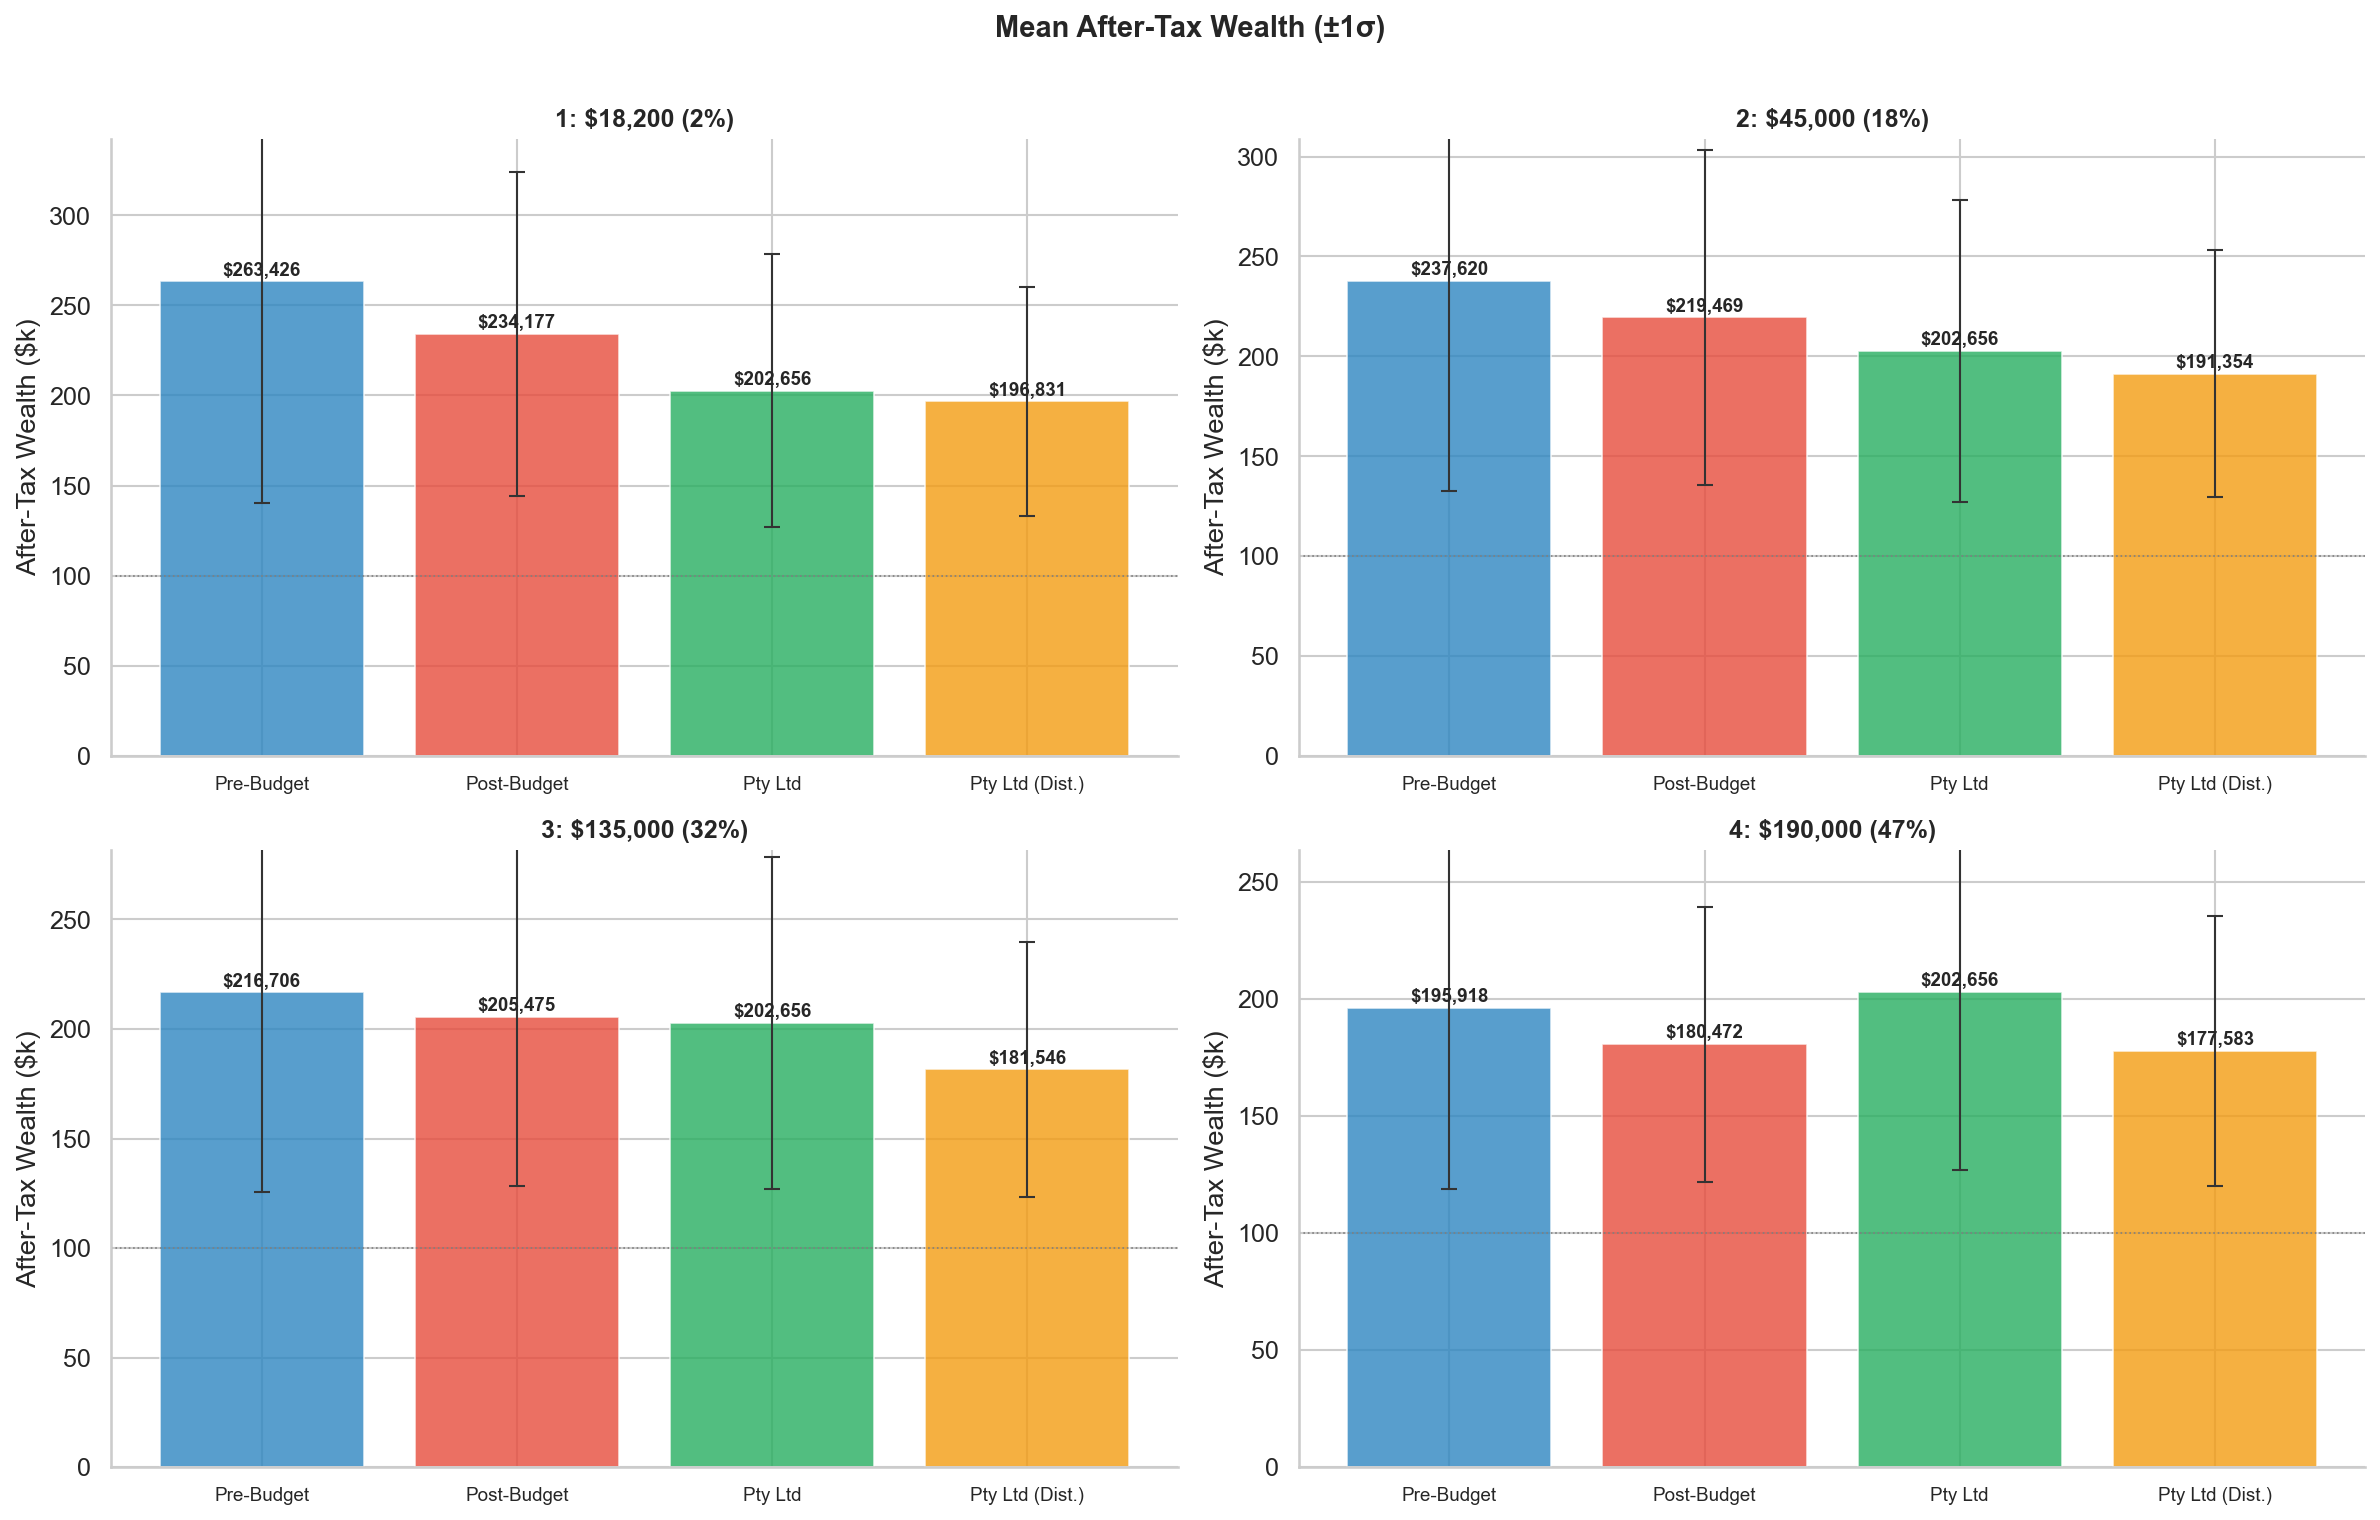
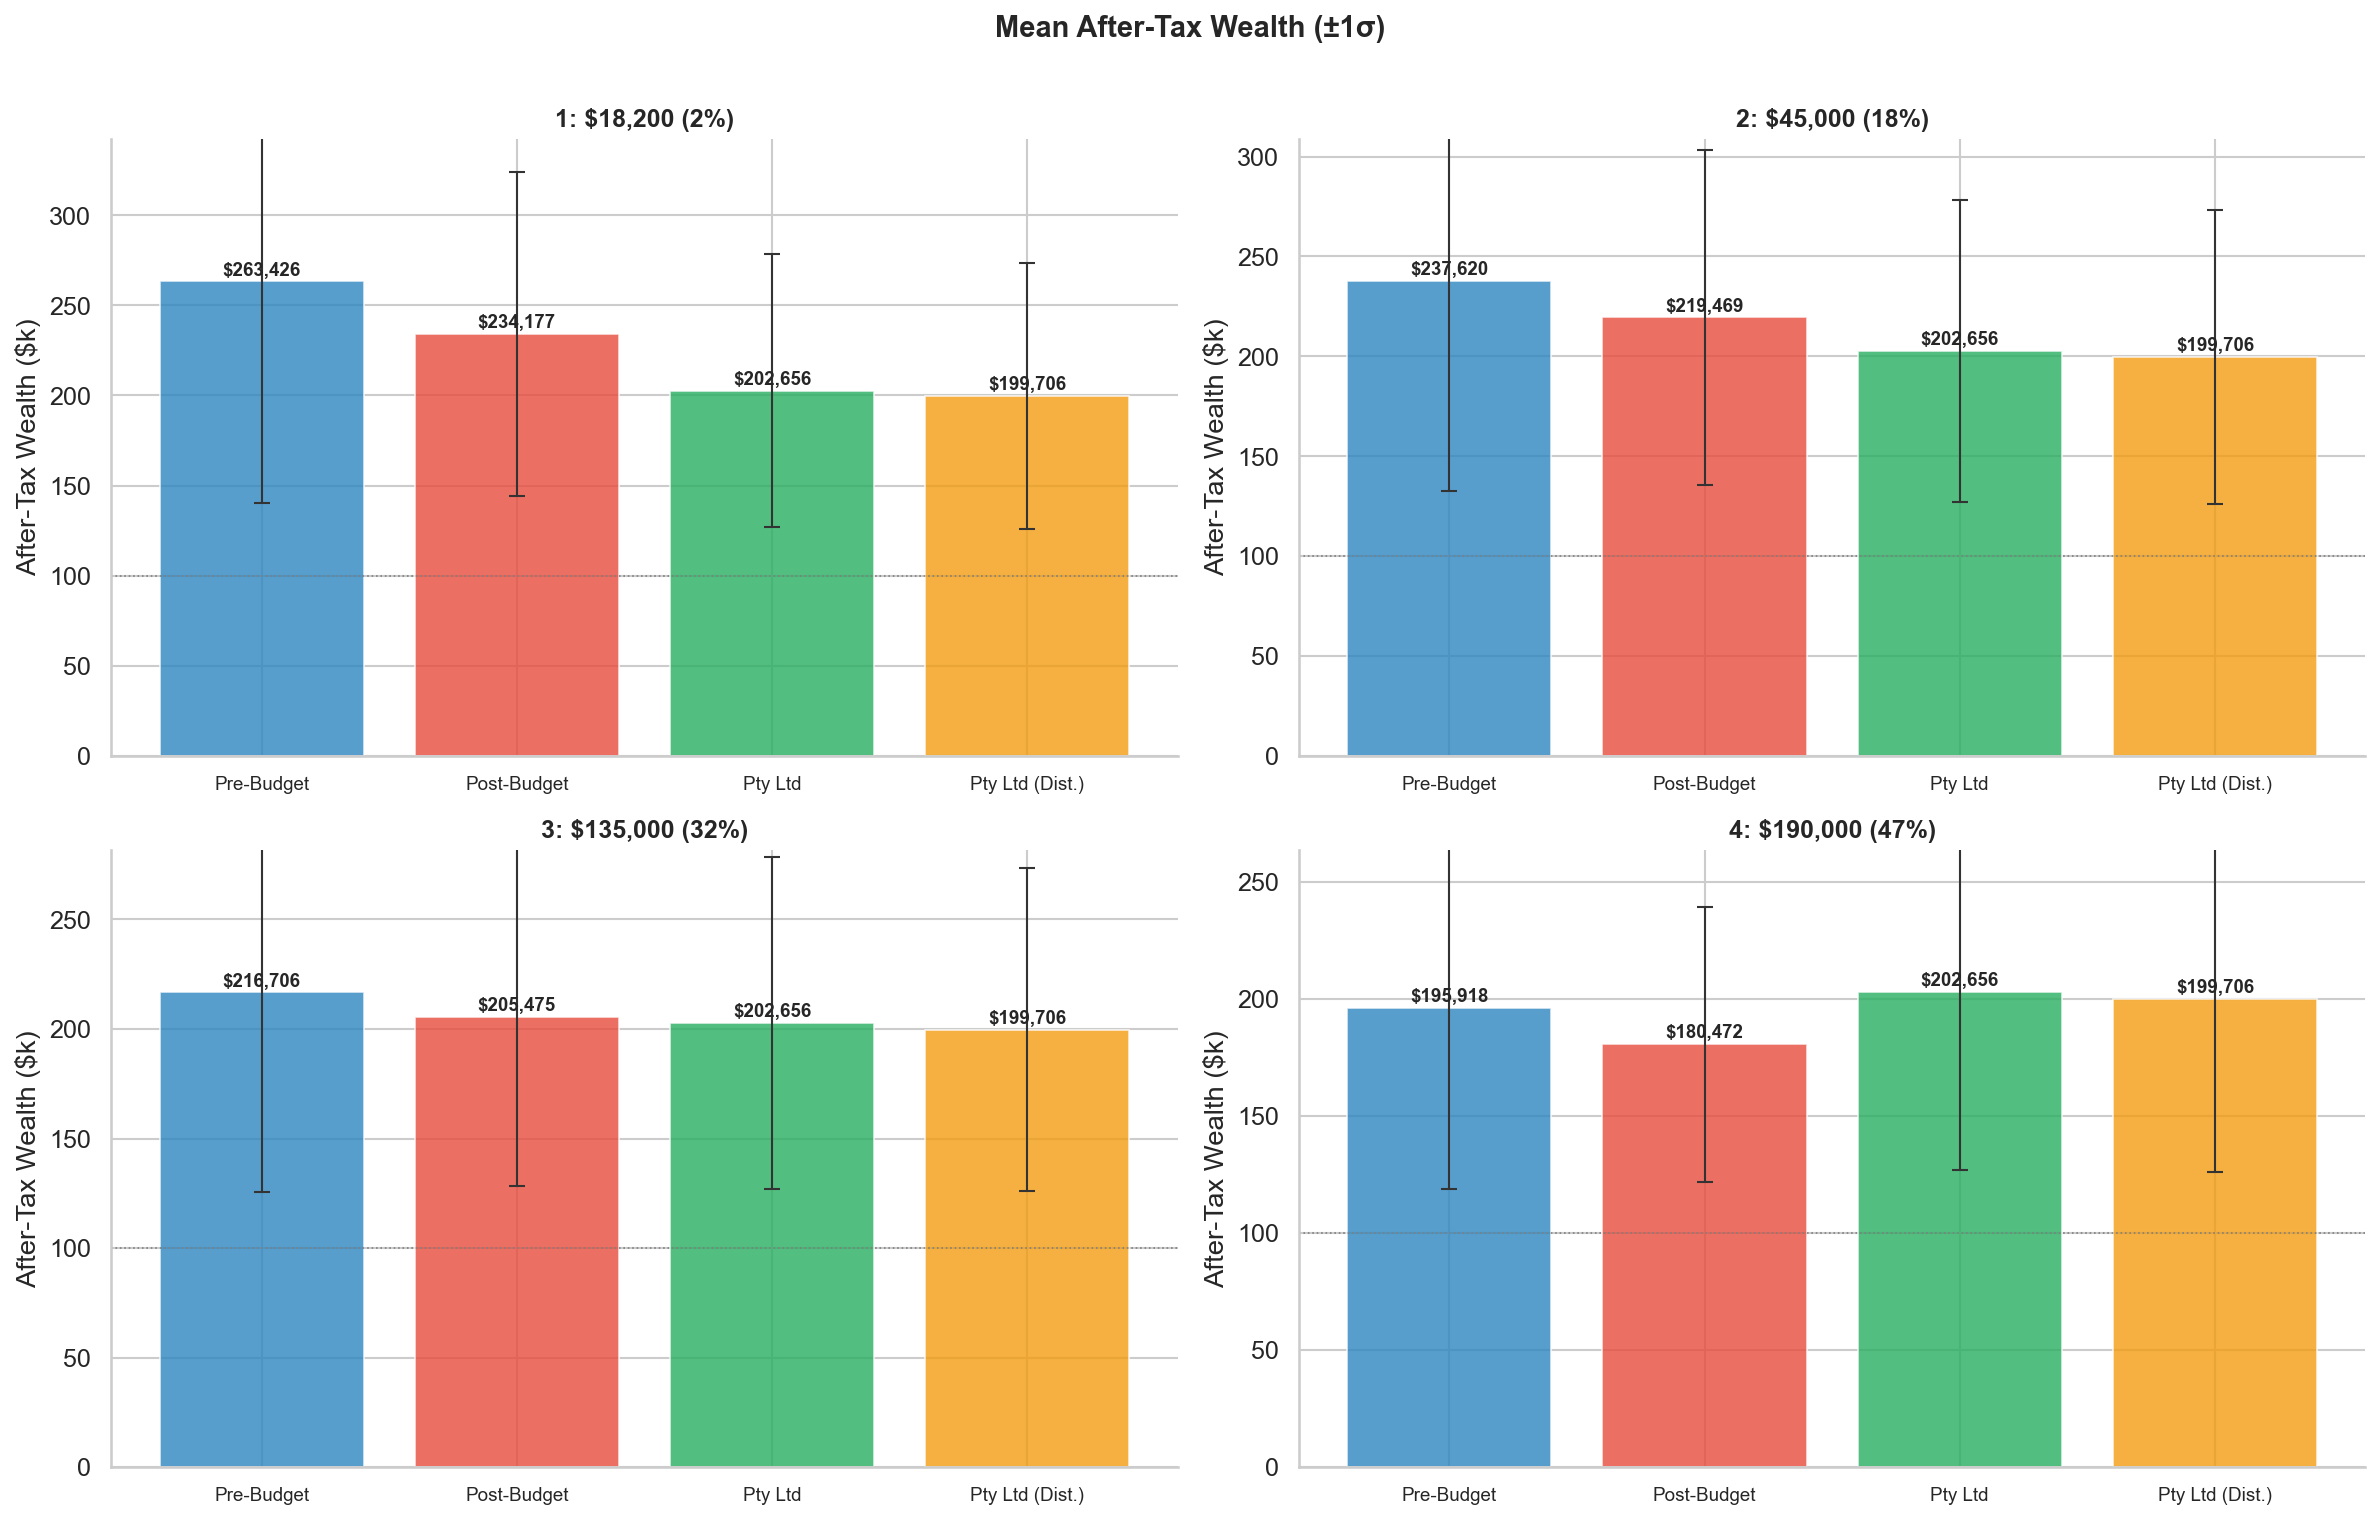
R_DIST=0.32 (incl. Medicare), multi-year distribution under 135k threshold

diff --git a/scenarios.py b/scenarios.py
@@ -59,6 +59,12 @@ CPI       = 0.025
 CORP_RATE = 0.30
 RHO       = 0.35
 
+# Pty Ltd (Dist.): profits drawn down over multiple retirement years, keeping
+# total taxable income under ~$135k. Effective individual rate ≈ 32%
+# (30% base + 2% Medicare). Franking credits offset most of this.
+# Net top-up: grossed_up × (0.32 − 0.30) = grossed_up × 0.02.
+R_DIST = 0.32
+
 # Dividend franking: most ASX dividends are fully franked at 30%
 FRANKING_PCT  = 0.80   # fraction of dividends that are fully franked
 FRANKING_RATE = 0.30   # corporate tax rate embedded in franking credit
@@ -89,10 +95,10 @@ TURNOVER_B = 6
 MAX_TURNOVER = 0.50
 
 ARCHETYPES = {
-    '1: $18,200 (2%)':   {'mr': 0.02, 'income': 18200},
-    '2: $45,000 (18%)':  {'mr': 0.18, 'income': 45000},
-    '3: $135,000 (32%)': {'mr': 0.32, 'income': 135000},
-    '4: $190,000 (47%)': {'mr': 0.47, 'income': 190000},
+    '1: $18,200 (2%)':   {'mr': 0.02},
+    '2: $45,000 (18%)':  {'mr': 0.18},
+    '3: $135,000 (32%)': {'mr': 0.32},
+    '4: $190,000 (47%)': {'mr': 0.47},
 }
 SCENARIOS = ['Pre-Budget', 'Post-Budget', 'Pty Ltd', 'Pty Ltd (Dist.)']
 COLS = ['#2e86c1', '#e74c3c', '#27ae60', '#f39c12']
@@ -159,7 +165,7 @@ print(f"Mean losers per portfolio: {(px_10yr < 1).sum(axis=1).mean():.1f} of {N_
 # ## Simulation engine
 
 # %%
-def simulate(mr, scenario, other_income=0):
+def simulate(mr, scenario):
     values       = np.full((N_SIMS, N_STOCKS), INIT_PER_STK, dtype=float)
     cost_bases   = np.full((N_SIMS, N_STOCKS), INIT_PER_STK, dtype=float)
     cost_years   = np.zeros((N_SIMS, N_STOCKS), dtype=int)  # purchase year per position
@@ -279,10 +285,8 @@ def simulate(mr, scenario, other_income=0):
         max_frank = dividend * CORP_RATE / (1 - CORP_RATE)
         franking  = np.minimum(cum_franking, max_frank)
         grossed_up = dividend + franking
-        # Progressive: distribution sits on top of other income
-        tax_pre   = _progressive_tax(np.full(N_SIMS, other_income))
-        tax_post  = _progressive_tax(np.full(N_SIMS, other_income) + grossed_up)
-        ind_tax   = tax_post - tax_pre
+        # Distributed over multiple years under ~$135k threshold → 30% effective
+        ind_tax   = grossed_up * R_DIST
         net_tax   = ind_tax - franking
         final     = roc + dividend - net_tax
         total_tax = cum_div_tax + cum_cgt + np.maximum(net_tax, 0) - np.maximum(-net_tax, 0)
@@ -346,10 +350,9 @@ def _regenerate_shared(years, n_sims):
 all_results = {}
 for arch_label, arch in ARCHETYPES.items():
     mr = arch['mr']
-    inc = arch['income']
     all_results[arch_label] = {}
     for sc in SCENARIOS:
-        all_results[arch_label][sc] = simulate(mr, sc, inc)
+        all_results[arch_label][sc] = simulate(mr, sc)
         print(f"  {arch_label} / {sc} done")
 
 # %% [markdown]
@@ -390,10 +393,9 @@ print(f'\n{"Archetype":>22s} {"Pre-Budget":>12s} {"Post-Budget":>12s} {"Pty Ltd"
 print('-' * 76)
 for arch_label, arch in ARCHETYPES.items():
     mr = arch['mr']
-    inc = arch['income']
     vals = []
     for sc in SCENARIOS:
-        r = simulate(mr, sc, inc)
+        r = simulate(mr, sc)
         vals.append(r[0].mean())
     print(f'{arch_label:>22s} ' + ' '.join(f'${v:>11,.0f}' for v in vals))
 
@@ -561,26 +563,23 @@ print(f'{"-"*22:>22s} {"-"*16:>16s}  {"-"*7:>7s} {"-"*7:>7s} {"-"*7:>7s} {"-"*7:
 
 for arch_label, arch in ARCHETYPES.items():
     mr = arch['mr']
-    inc = arch['income']
     for sc in SCENARIOS:
         vals = []
         for y in HORIZONS:
             _regenerate_shared(y, S_SIMS)
-            r = simulate(mr, sc, inc)
+            r = simulate(mr, sc)
             vals.append(r[0].mean() / 1000)
         print(f'{arch_label:>22s} {sc:>16s}  ' + ' '.join(f'${v:>6.0f}k' for v in vals))
 
-# Build chart data
 horizon_data = {}
 for arch_label, arch in ARCHETYPES.items():
     mr = arch['mr']
-    inc = arch['income']
     horizon_data[arch_label] = {}
     for sc in SCENARIOS:
         vals = []
         for y in HORIZONS:
             _regenerate_shared(y, S_SIMS)
-            r = simulate(mr, sc, inc)
+            r = simulate(mr, sc)
             vals.append(r[0].mean() / 1000)
         horizon_data[arch_label][sc] = vals
 